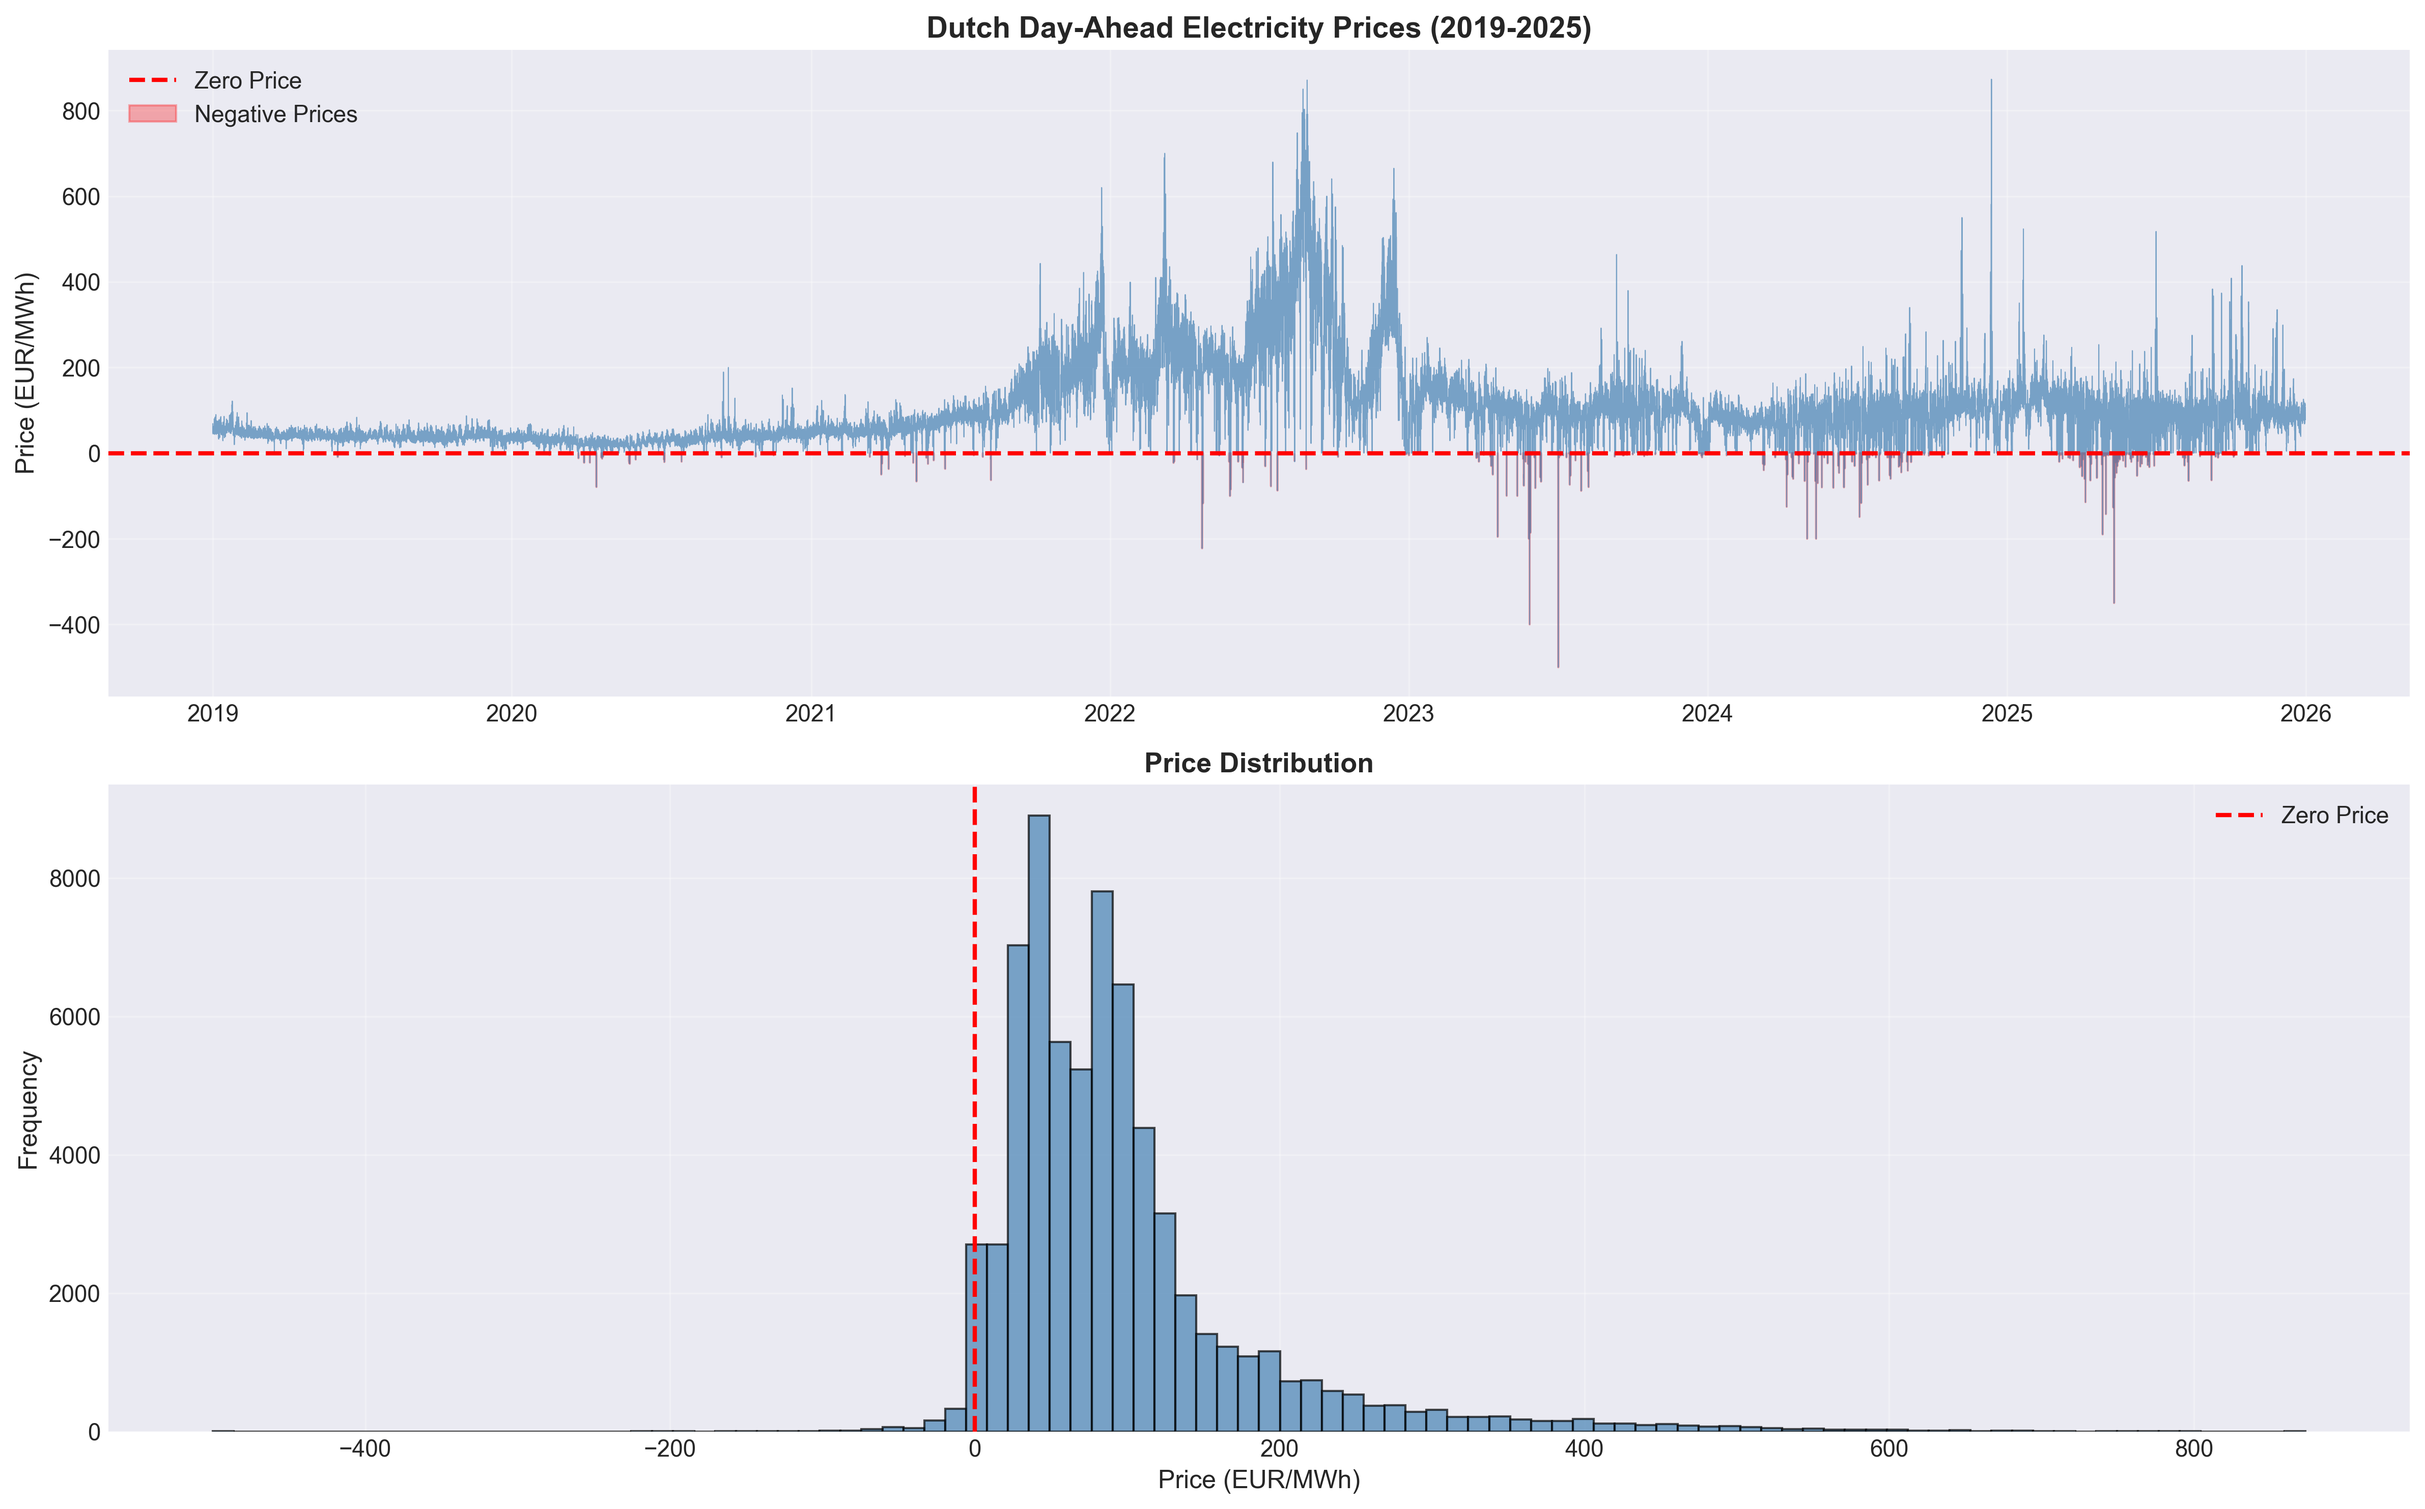
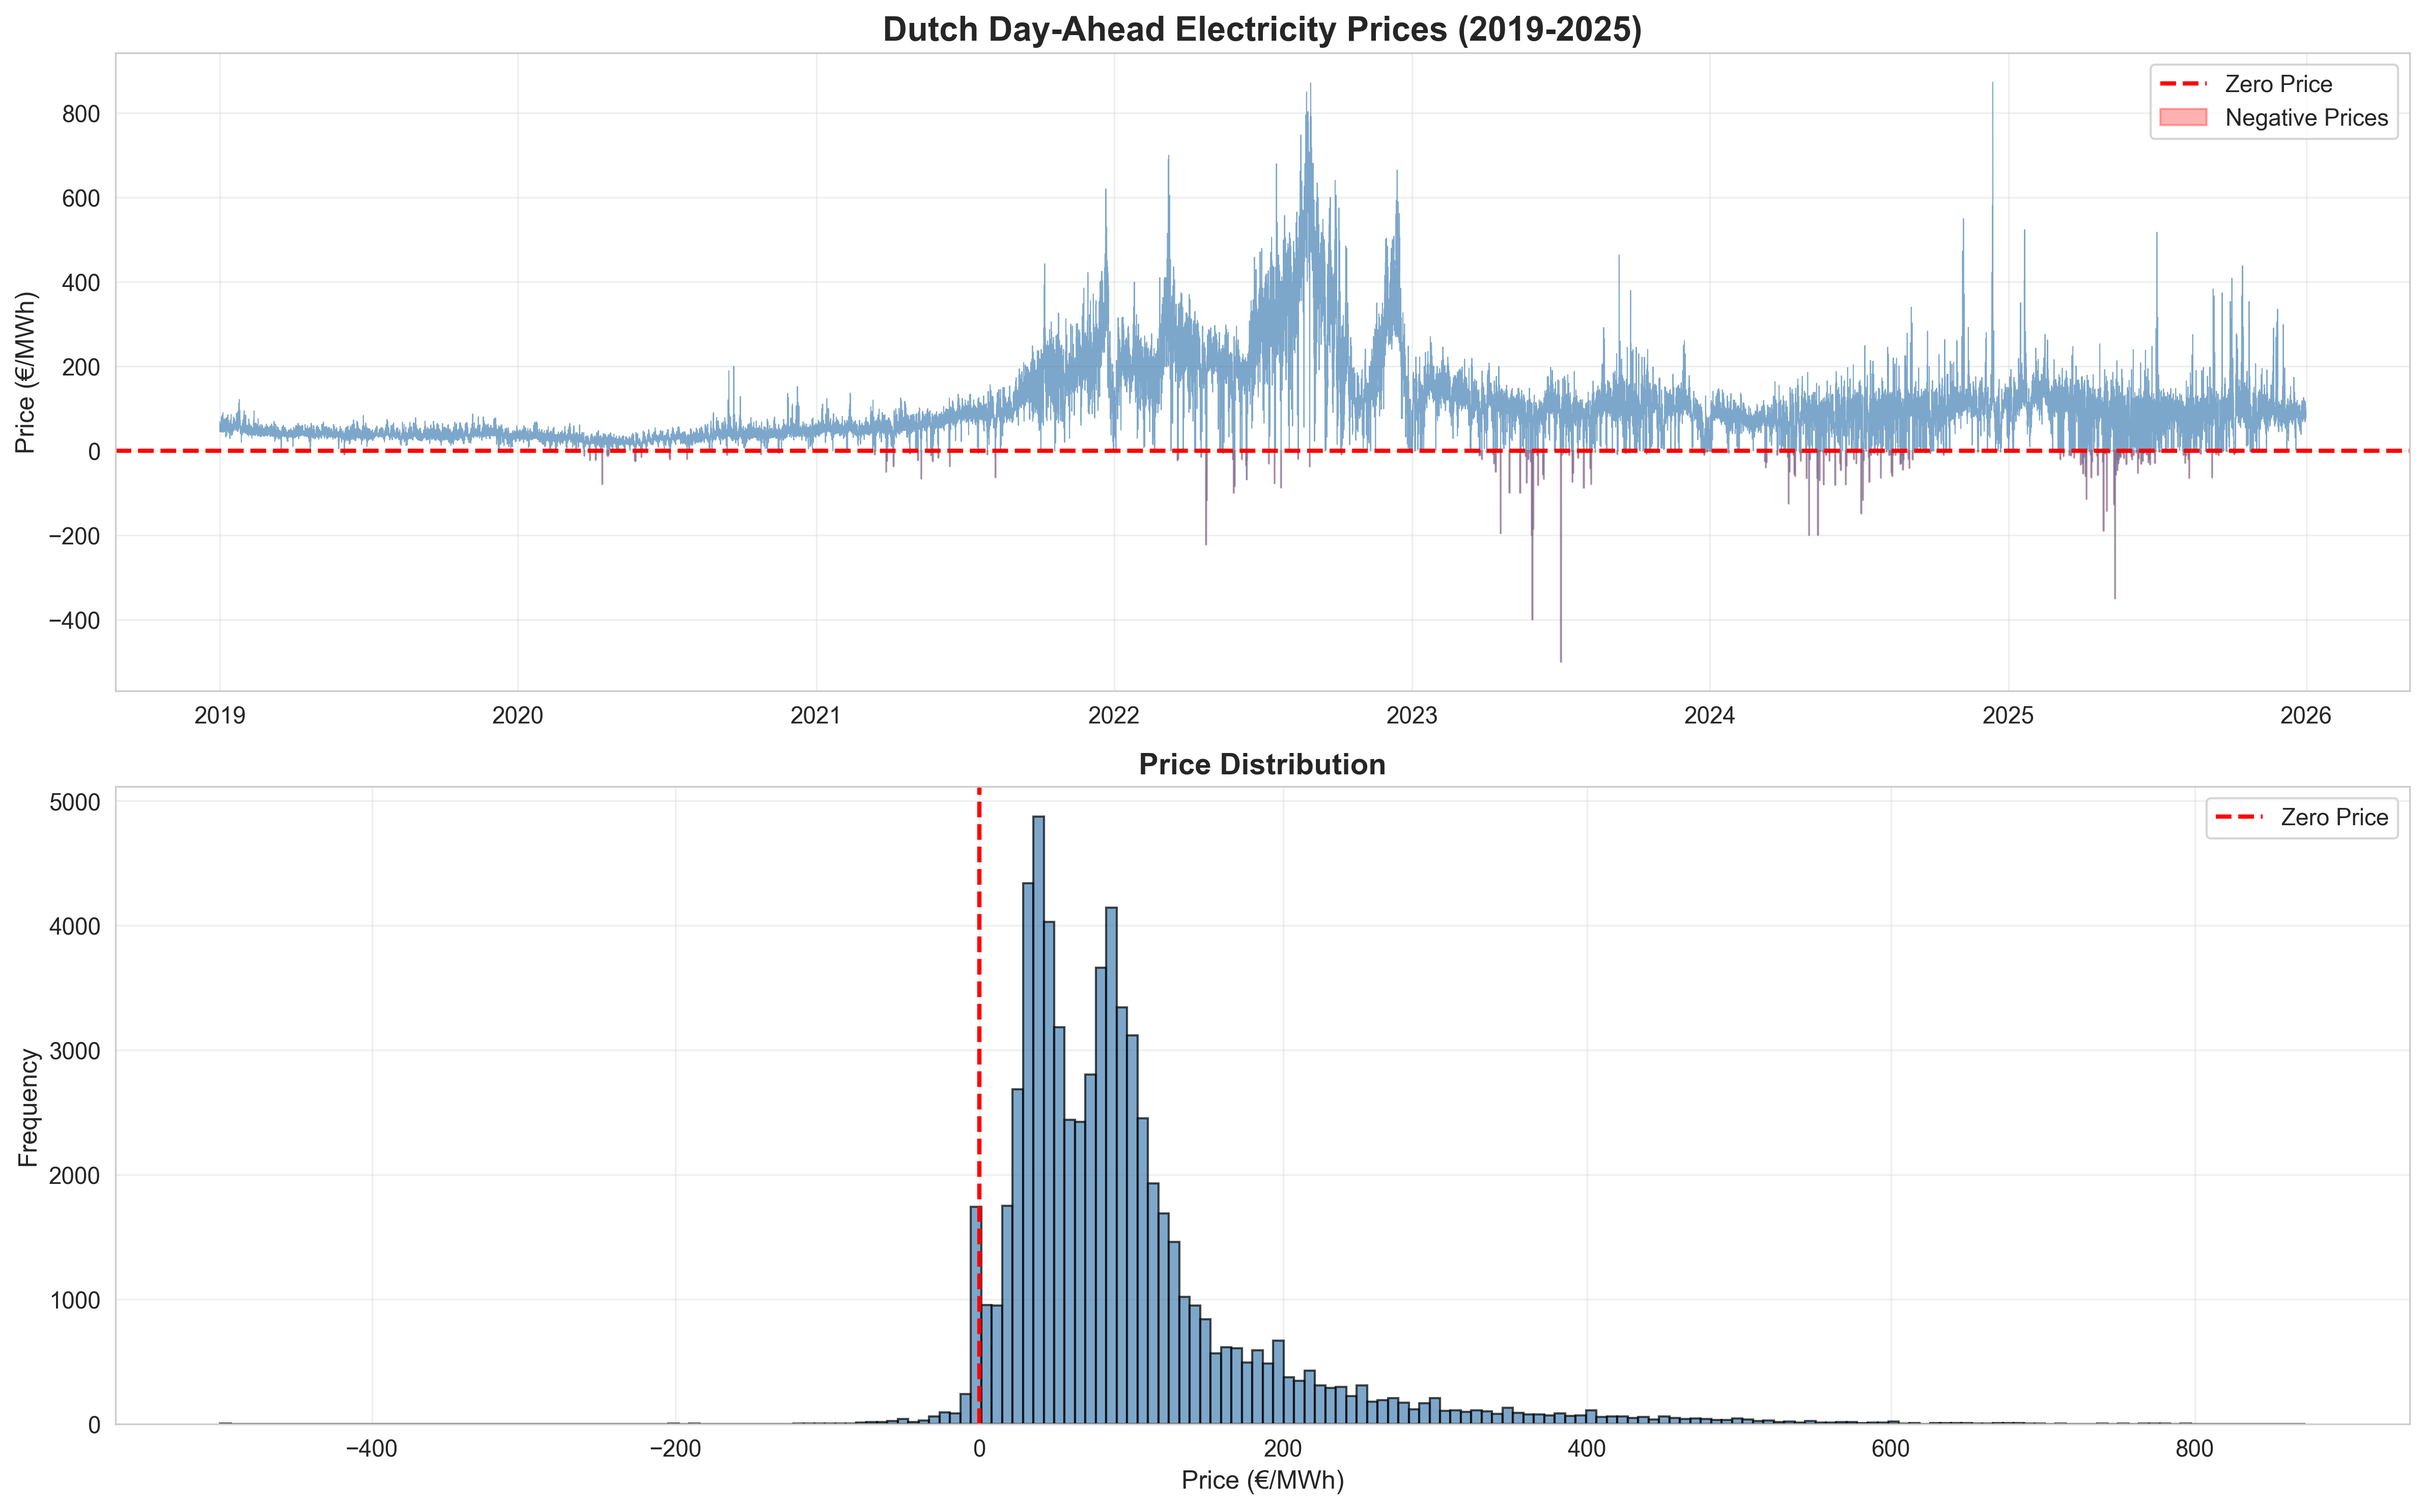
Updates to visualizations and readme.

diff --git a/README.md b/README.md
@@ -140,10 +140,6 @@ To obtain your free ENTSO-E API key:
 3. Request an API key (usually instant approval)
 4. Add to your `.env` file
 
-## License
-
-MIT License - See LICENSE file for details
-
 ## Contact
 
 For questions or feedback, feel free to reach out or open an issue.
